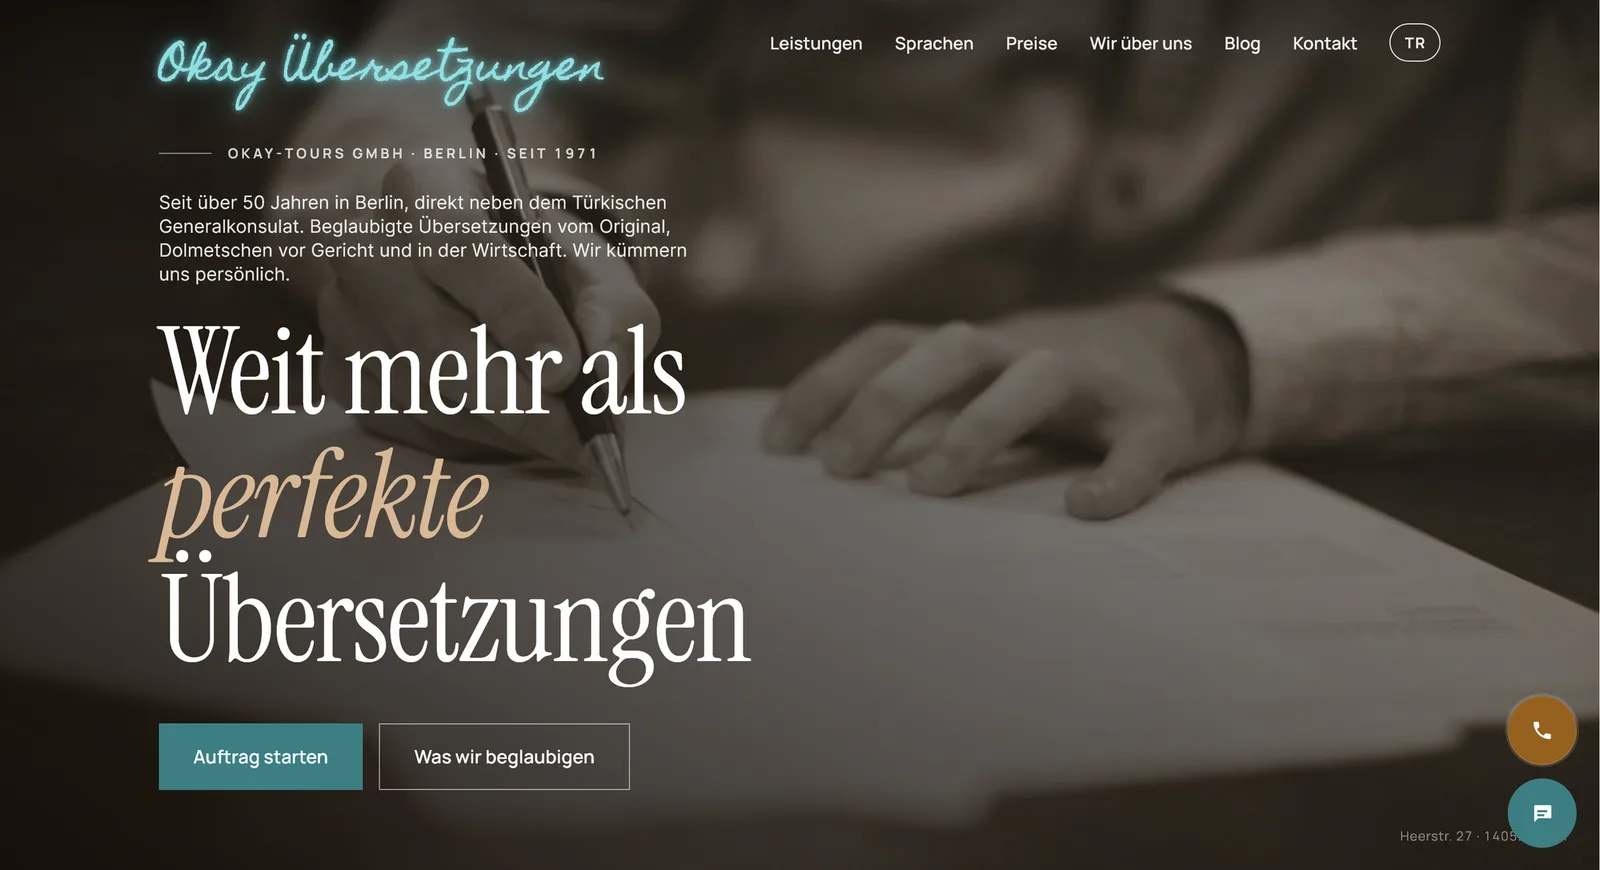
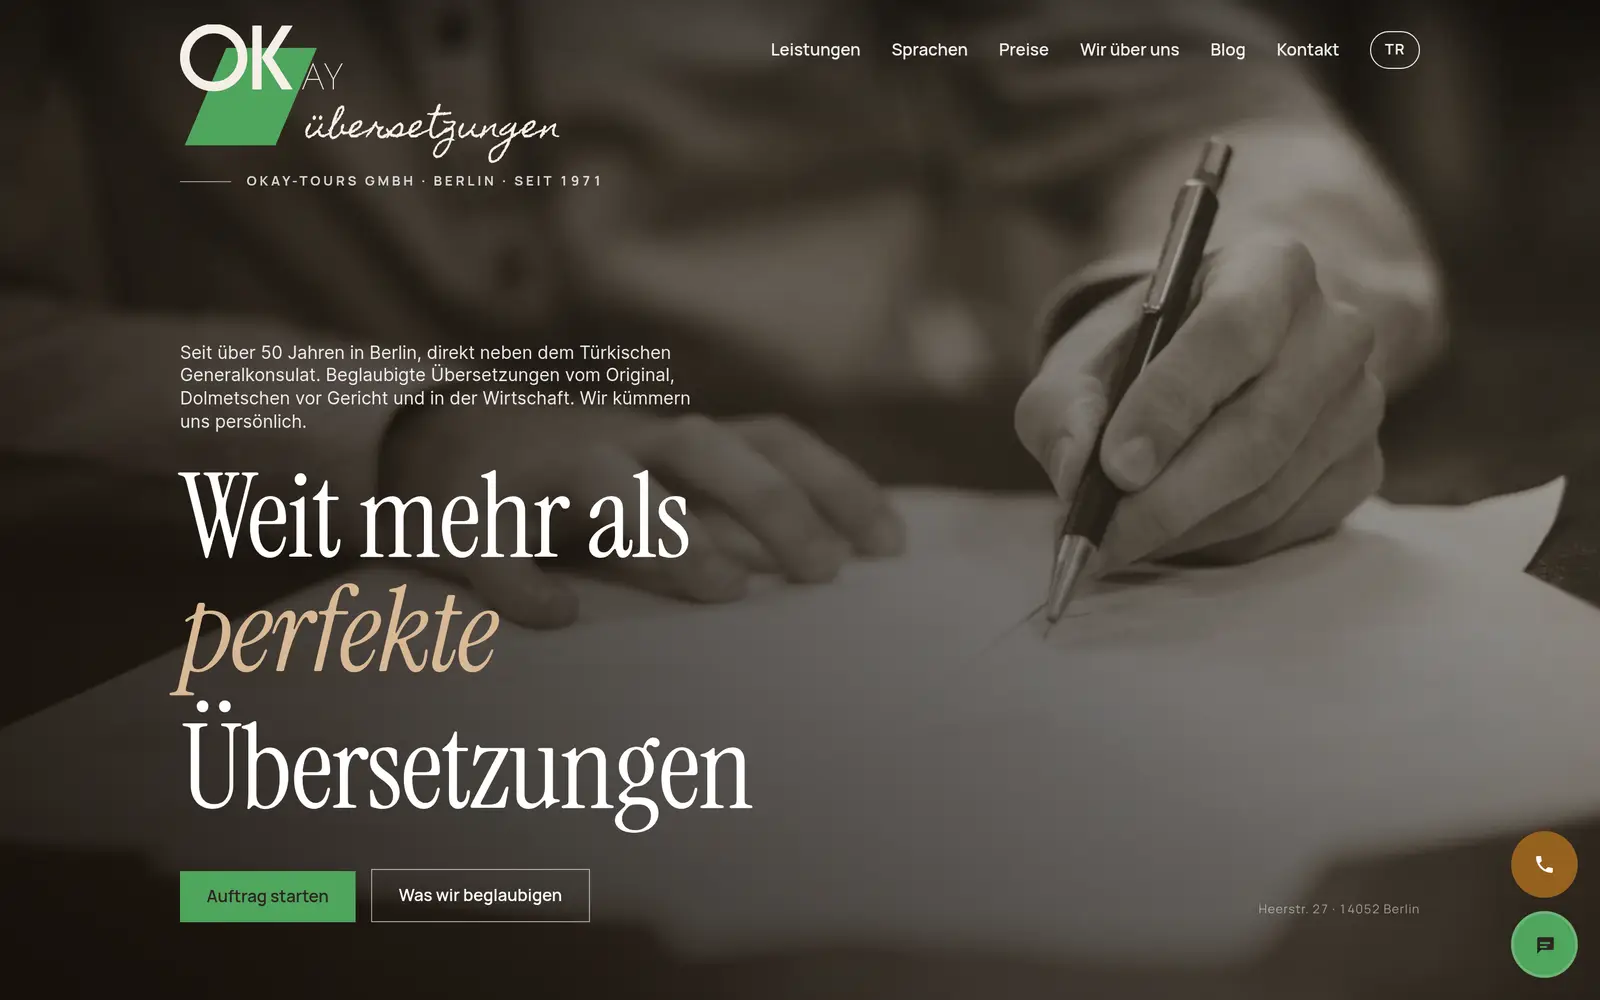
okay-uebersetzungen: live on the real domain, text chat, single order path, owner's copy editor, three quiet failures, re-shot cover + two screenshots

diff --git a/CLAUDE.md b/CLAUDE.md
@@ -147,7 +147,7 @@ The URL comes from the **filename** (`src/content/projects/coachly.mdx` → `/wo
 3. Verify BOTH forms after deploy: `curl -s -o /dev/null -w '%{http_code} %{redirect_url}' <url>` — expect 308 on each — and confirm the sitemap dropped the old URL.
 
 ### Write or refresh a case study (`src/content/projects/*.mdx`)
-- **Fixed shape**: exactly four `##` sections — **Problem / Build / Architecture / Reflection** — in that order. Whole-file `wc -w` currently spans 389–1158 for the non-hero projects (dmk 389 · vibes 746 · okay 886 · coachly 1034 · revintage 1126 · digiscrape 1158; mahalle 2729). The range guards against padding, not against size: **MaHalle is the hero project and may run longer than its siblings** (Ercan's explicit call, Sept 2026) — don't trim it back toward the pack. The ~1,500 "ceiling" that stood here was **waived by Ercan on 2026-10-27** ("refresh the case study, but dont replace a story"): the mid-Oct pass had trimmed to 1,586 and the late-Oct pass added five stories on top (read-only demo, invite vouch, blog comments, browser uploads, the eight-week fail-safe) and landed at 2,141; the mid-Nov pass ("go, add", 2026-11-16) added the sign-up outage, bounce webhook, link check, visitor translation and blog-index stories and landed at 2,729. Still split long stories out into blog posts and link them from the case study (the cold-start and Kiez-Brief paragraphs do) — but whether the hero file gets a cut is his decision, so ask before replacing anything. For the others, don't let one balloon into an outlier — measure the siblings before adding: `for f in src/content/projects/*.mdx; do echo "$(basename $f): $(wc -w < $f)"; done`. **Give a subagent a whole-file `wc -w` target, not a "body words" target** — body-vs-frontmatter arithmetic in a brief is a bug factory.
+- **Fixed shape**: exactly four `##` sections — **Problem / Build / Architecture / Reflection** — in that order. Whole-file `wc -w` currently spans 389–1356 for the non-hero projects (dmk 389 · vibes 746 · coachly 1034 · revintage 1126 · digiscrape 1158 · okay 1356; mahalle 2729). The range guards against padding, not against size: **MaHalle is the hero project and may run longer than its siblings** (Ercan's explicit call, Sept 2026) — don't trim it back toward the pack. The ~1,500 "ceiling" that stood here was **waived by Ercan on 2026-10-27** ("refresh the case study, but dont replace a story"): the mid-Oct pass had trimmed to 1,586 and the late-Oct pass added five stories on top (read-only demo, invite vouch, blog comments, browser uploads, the eight-week fail-safe) and landed at 2,141; the mid-Nov pass ("go, add", 2026-11-16) added the sign-up outage, bounce webhook, link check, visitor translation and blog-index stories and landed at 2,729. Still split long stories out into blog posts and link them from the case study (the cold-start and Kiez-Brief paragraphs do) — but whether the hero file gets a cut is his decision, so ask before replacing anything. For the others, don't let one balloon into an outlier — measure the siblings before adding: `for f in src/content/projects/*.mdx; do echo "$(basename $f): $(wc -w < $f)"; done`. **Give a subagent a whole-file `wc -w` target, not a "body words" target** — body-vs-frontmatter arithmetic in a brief is a bug factory.
 - **If the subagent writes body-only (because you're supplying frontmatter), you MUST hand it a body number — so derive it by measuring the frontmatter you will actually write, not by guessing.** Frontmatter is much heavier than it looks: descriptive `alt` + `caption` runs ~35 words per screenshot, so a cover + 5 shots + `exif` came to **317 words**, not the ~180 I estimated. On Re:Vintage that error survived my pre-dispatch audit and the first assembled draft projected 1,396 whole-file words — 51% over the then-largest sibling — forcing two full trim passes after the writing was already done. Write the frontmatter FIRST, `wc -w` it, then subtract.
 - **Formatting is per-file, not global.** Most are pure prose, but `okay-uebersetzungen.mdx` uses a short bullet list inside Architecture. A refresh brief must say "keep this file's existing conventions" or the subagent will normalise it to whatever the other case studies do.
 - **No `updatedAt` field** on the projects schema (unlike blog) — a refresh edits the body in place and leaves `publishedAt` alone.
